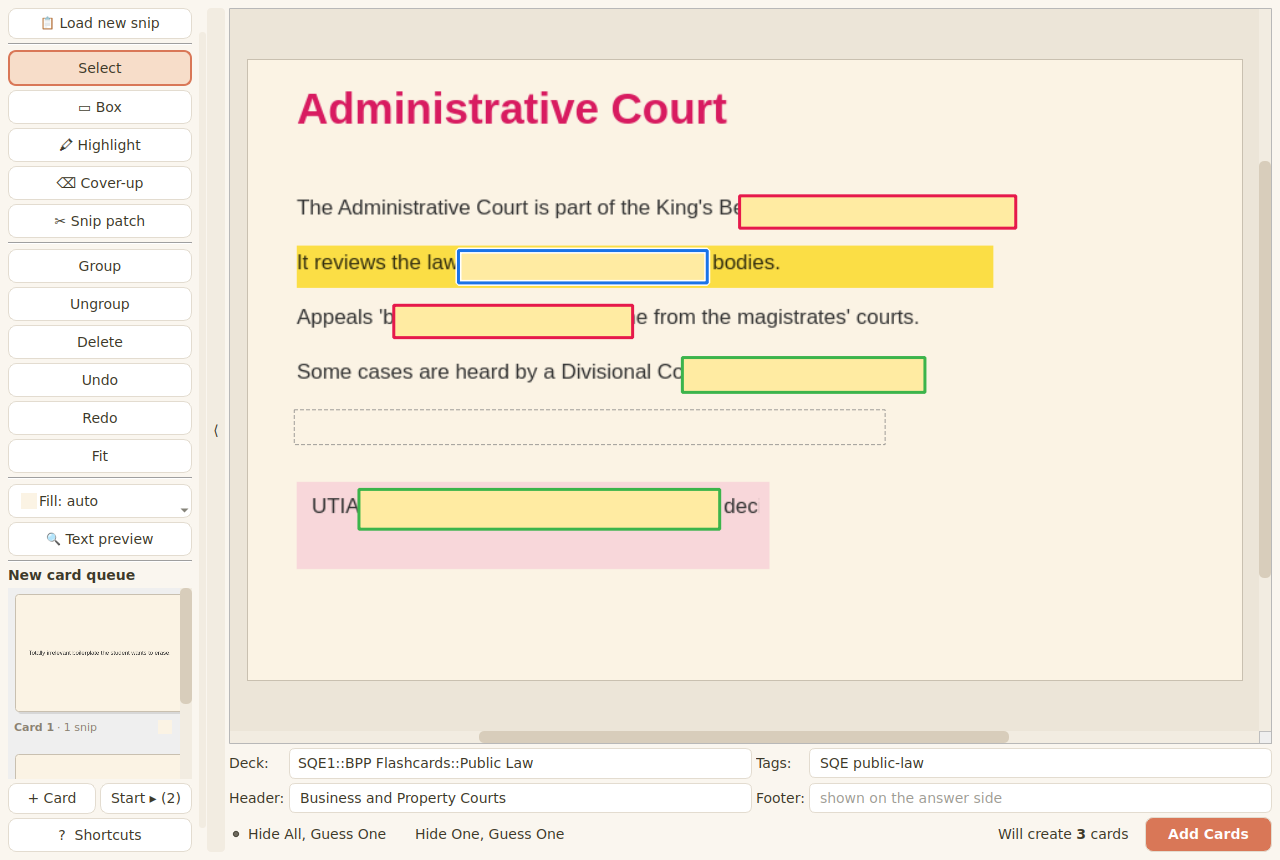
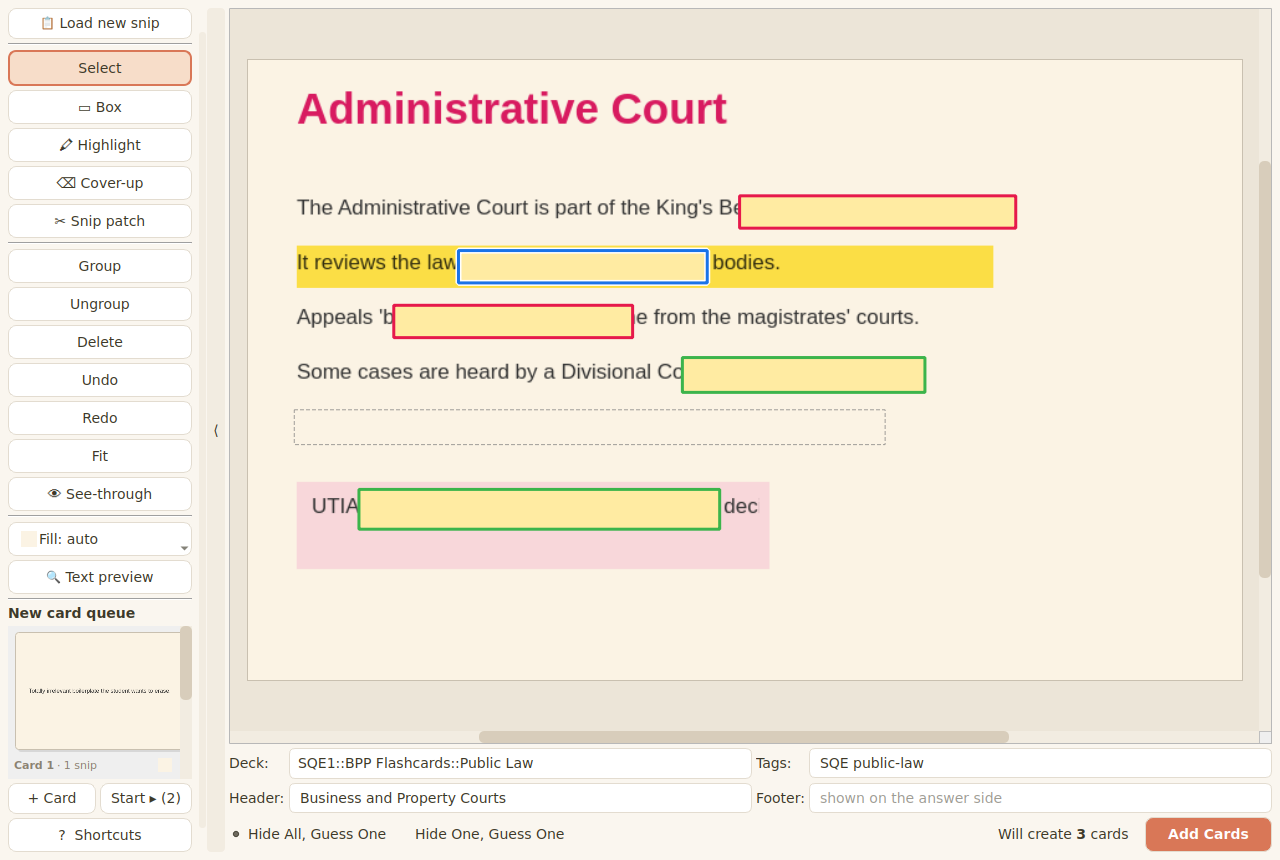
See-through mode and per-box peek (v0.6.0)
- T (or the checkable 👁 See-through button) renders masks and cover-ups
  as outlines only so the text underneath is readable while editing;
  toggling back restores opacity. View-only: bake and cards unaffected
- Right-click any box -> 'Peek underneath' to see through just that box;
  right-click again to stop. Peek state is pruned when shapes are
  deleted and cleared on new images
- Pixel-level tests verify both modes actually reveal the underlying
  image in the rendered viewport

Claude-Session: https://claude.ai/code/session_01B1Kw15xiaiYrjU46HCDApT

diff --git a/snip_occlusion/editor_canvas.py b/snip_occlusion/editor_canvas.py
@@ -83,7 +83,10 @@ class _OverlayItem(QGraphicsItem):
         for s in c.ordered_shapes():
             rect = QRectF(s.x, s.y, s.w, s.h)
             if s.kind == KIND_ERASE:
-                painter.setBrush(QBrush(QColor(s.color or "#ffffff")))
+                if c.xray or s.id in c.peek_ids:
+                    painter.setBrush(Qt.BrushStyle.NoBrush)
+                else:
+                    painter.setBrush(QBrush(QColor(s.color or "#ffffff")))
                 pen = QPen(QColor(120, 120, 120, 180), 1, Qt.PenStyle.DashLine)
                 pen.setCosmetic(True)
                 painter.setPen(pen)
@@ -114,8 +117,13 @@ class _OverlayItem(QGraphicsItem):
                 painter.restore()
                 continue
 
-            fill = QColor(c.mask_fill)  # fully opaque: masks must hide text
-            painter.setBrush(QBrush(fill))
+            # see-through mode (global toggle or per-box peek): outline
+            # only, so the text underneath stays readable while editing
+            see_through = c.xray or s.id in c.peek_ids
+            if see_through:
+                painter.setBrush(Qt.BrushStyle.NoBrush)
+            else:
+                painter.setBrush(QBrush(QColor(c.mask_fill)))  # opaque
             if s.group:
                 # group membership is shown by a bold shared outline colour
                 idx = badge_order.get(s.group, 1)
@@ -123,7 +131,7 @@ class _OverlayItem(QGraphicsItem):
                     QColor(GROUP_PALETTE[(idx - 1) % len(GROUP_PALETTE)]), 3
                 )
             else:
-                pen = QPen(QColor(0, 0, 0, 110), 1)
+                pen = QPen(QColor(0, 0, 0, 190 if see_through else 110), 1)
             pen.setCosmetic(True)
             painter.setPen(pen)
             if s.kind == KIND_ELLIPSE:
@@ -179,6 +187,7 @@ class OcclusionCanvas(QGraphicsView):
     selection_changed = pyqtSignal()
     tool_changed = pyqtSignal(str)
     send_patch_to_new_card = pyqtSignal(str)  # patch id (context menu path)
+    xray_changed = pyqtSignal(bool)
 
     def __init__(self, config: dict, parent=None):
         super().__init__(parent)
@@ -197,6 +206,8 @@ class OcclusionCanvas(QGraphicsView):
         self.tool: str = TOOL_SELECT
         self.gesture: dict | None = None
         self.handles_visible: bool = False
+        self.xray: bool = False  # global see-through: outlines only
+        self.peek_ids: set = set()  # per-box see-through (right-click)
         self._group_counter = 0
         self._undo: list = []
         self._redo: list = []
@@ -229,6 +240,7 @@ class OcclusionCanvas(QGraphicsView):
         self.shapes = []
         self.selection = set()
         self.gesture = None
+        self.peek_ids = set()
         self._group_counter = 0
         self._undo = []
         self._redo = []
@@ -445,8 +457,27 @@ class OcclusionCanvas(QGraphicsView):
         self._emit_changed()
 
     def _emit_changed(self) -> None:
+        self.peek_ids &= {s.id for s in self.shapes}
         self.shapes_changed.emit()
         self.selection_changed.emit()
+        self.viewport().update()
+
+    # -------------------------------------------------------- see-through
+
+    def set_xray(self, on: bool) -> None:
+        if on != self.xray:
+            self.xray = on
+            self.xray_changed.emit(on)
+            self.viewport().update()
+
+    def toggle_xray(self) -> None:
+        self.set_xray(not self.xray)
+
+    def toggle_peek(self, shape_id: str) -> None:
+        if shape_id in self.peek_ids:
+            self.peek_ids.discard(shape_id)
+        else:
+            self.peek_ids.add(shape_id)
         self.viewport().update()
 
     # ------------------------------------------------------------ copy/paste
@@ -924,6 +955,10 @@ class OcclusionCanvas(QGraphicsView):
                 self.delete_selected()
             return
         menu = QMenu(self)
+        act_peek = menu.addAction(
+            "Stop peeking" if s.id in self.peek_ids else "Peek underneath"
+        )
+        menu.addSeparator()
         act_group = menu.addAction("Group selected\tG")
         act_ungroup = menu.addAction("Ungroup\tU")
         act_del = menu.addAction("Delete\tDel")
@@ -931,7 +966,9 @@ class OcclusionCanvas(QGraphicsView):
             len([i for i in self.selection if self.shape_by_id(i)]) >= 2
         )
         chosen = menu.exec(event.globalPos())
-        if chosen == act_group:
+        if chosen == act_peek:
+            self.toggle_peek(s.id)
+        elif chosen == act_group:
             self.group_selected()
         elif chosen == act_ungroup:
             self.ungroup_selected()
@@ -970,13 +1007,19 @@ class OcclusionCanvas(QGraphicsView):
 
     def _erase_color_menu(self, s: sh.Shape, global_pos) -> None:
         menu = QMenu(self)
+        act_peek = menu.addAction(
+            "Stop peeking" if s.id in self.peek_ids else "Peek underneath"
+        )
+        menu.addSeparator()
         act_majority = menu.addAction("Fill with slide's majority colour")
         act_local = menu.addAction("Sample background around this box")
         act_pick = menu.addAction("Choose colour…")
         menu.addSeparator()
         act_del = menu.addAction("Delete\tDel")
         chosen = menu.exec(global_pos)
-        if chosen == act_majority:
+        if chosen == act_peek:
+            self.toggle_peek(s.id)
+        elif chosen == act_majority:
             self.push_undo()
             s.color = self.majority.name()
             self._emit_changed()
@@ -1037,6 +1080,8 @@ class OcclusionCanvas(QGraphicsView):
             self.set_tool(TOOL_PATCH)
         elif key == Qt.Key.Key_H:
             self.set_tool(TOOL_HIGHLIGHT)
+        elif key == Qt.Key.Key_T:
+            self.toggle_xray()
         elif key == Qt.Key.Key_F or key == Qt.Key.Key_0:
             self.fit()
         elif key in (Qt.Key.Key_Plus, Qt.Key.Key_Equal):

diff --git a/tests/test_canvas.py b/tests/test_canvas.py
@@ -476,6 +476,61 @@ def test_copy_paste_preserves_internal_grouping(canvas):
     assert grouped[0].group != "g1"  # a fresh group, not joined to the old
 
 
+def _rendered_color_at(canvas, scene_x, scene_y):
+    """Colour of the rendered viewport at a scene point."""
+    img = canvas.grab().toImage()
+    dpr = img.devicePixelRatio()
+    vp = canvas.mapFromScene(QPointF(scene_x, scene_y))
+    return img.pixelColor(int(vp.x() * dpr), int(vp.y() * dpr))
+
+
+def test_xray_mode_shows_text_under_all_boxes(canvas, qapp):
+    # a mask over a text-free part of the pink callout (y 382..406)
+    s = add_shape(canvas, 60, 382, w=200, h=24)
+    canvas.resetTransform()  # 1:1 so sampled pixels are exact
+    canvas.centerOn(160, 394)
+    canvas.show()
+    qapp.processEvents()
+    covered = _rendered_color_at(canvas, 160, 394)
+    # opaque: the mask colour, nothing pink shows through
+    assert abs(covered.red() - 0xFF) < 25 and abs(covered.green() - 0xEB) < 30
+    canvas.toggle_xray()
+    assert canvas.xray
+    revealed = _rendered_color_at(canvas, 160, 394)
+    # see-through: the pink callout (#f8d7da) is visible again
+    assert abs(revealed.red() - 0xF8) < 25
+    assert abs(revealed.green() - 0xD7) < 30
+    assert abs(revealed.blue() - 0xDA) < 30
+    canvas.toggle_xray()
+    assert not canvas.xray
+    back = _rendered_color_at(canvas, 160, 394)
+    assert abs(back.green() - 0xEB) < 30  # opaque again
+
+
+def test_peek_shows_under_one_box_only(canvas, qapp):
+    a = add_shape(canvas, 60, 382, w=100, h=24)  # over pink callout
+    b = add_shape(canvas, 200, 382, w=100, h=24)  # also over the callout
+    canvas.resetTransform()
+    canvas.centerOn(180, 394)
+    canvas.show()
+    qapp.processEvents()
+    canvas.toggle_peek(a.id)
+    assert a.id in canvas.peek_ids
+    under_a = _rendered_color_at(canvas, 110, 394)
+    under_b = _rendered_color_at(canvas, 250, 394)
+    assert abs(under_a.red() - 0xF8) < 25 and abs(under_a.blue() - 0xDA) < 30
+    assert abs(under_b.green() - 0xEB) < 30  # b stays opaque
+    canvas.toggle_peek(a.id)
+    assert a.id not in canvas.peek_ids
+    # peeking is view-only: cards and baked image are unaffected
+    canvas.toggle_peek(b.id)
+    assert len(target_groups(canvas.shapes)) == 2
+    # deleting a shape cleans up its peek state
+    canvas.selection = {b.id}
+    canvas.delete_selected()
+    assert b.id not in canvas.peek_ids
+
+
 def test_move_is_clamped_to_image(canvas):
     s = add_shape(canvas, 10, 10, w=50, h=30)
     press(canvas, 20, 20)

diff --git a/snip_occlusion/dialog.py b/snip_occlusion/dialog.py
@@ -44,6 +44,11 @@ Click = select one &middot; Shift+click = add/remove from selection \
 Drag on empty area = rubber-band select &middot; Ctrl+A = select all<br>
 Ctrl+C copies the selected boxes &middot; Ctrl+V pastes them beside the \
 originals (never overlapping)<br><br>
+<b>Seeing underneath</b><br>
+<b>T</b> (or the 👁 button) shows every box as an outline only so the \
+text underneath is visible. Right-click one box &rarr; "Peek underneath" \
+to see under just that box; right-click again to stop. View-only - \
+cards are unaffected.<br><br>
 <b>Moving</b><br>
 Drag a shape = move <i>only that shape</i> &middot; \
 Ctrl+drag = move all selected shapes together<br>
@@ -300,6 +305,16 @@ class SnipOcclusionDialog(QDialog):
             qconnect(btn.clicked, lambda _=False, f=cb: f())
             side.addWidget(btn)
 
+        self.xray_btn = self._side_button(
+            "👁 See-through",
+            "Show every box as an outline only, so the text underneath is "
+            "visible while you edit (T). Right-click a single box to peek "
+            "under just that one.",
+        )
+        self.xray_btn.setCheckable(True)
+        qconnect(self.xray_btn.clicked, self._xray_clicked)
+        side.addWidget(self.xray_btn)
+
         side.addWidget(self._separator())
         self.swatch_btn = self._side_button(
             "Fill: auto",
@@ -401,6 +416,7 @@ class SnipOcclusionDialog(QDialog):
         qconnect(
             self.canvas.send_patch_to_new_card, self._send_patch_to_new_card
         )
+        qconnect(self.canvas.xray_changed, self.xray_btn.setChecked)
 
         # --- bottom form
         form = QGridLayout()
@@ -565,6 +581,10 @@ class SnipOcclusionDialog(QDialog):
 
     def _fit(self) -> None:
         self.canvas.fit()
+        self.canvas.setFocus()
+
+    def _xray_clicked(self, checked: bool) -> None:
+        self.canvas.set_xray(checked)
         self.canvas.setFocus()
 
     def _toggle_fullscreen(self) -> None:

diff --git a/tools/dialog_screenshot.py b/tools/dialog_screenshot.py
@@ -97,7 +97,14 @@ def main() -> None:
     dlg.grab().save(str(out_dir / "dialog.png"))
     print("wrote", out_dir / "dialog.png")
 
-    # second shot: sidebar collapsed for full-screen editing
+    # see-through mode shot
+    canvas.set_xray(True)
+    app.processEvents()
+    dlg.grab().save(str(out_dir / "dialog_xray.png"))
+    print("wrote", out_dir / "dialog_xray.png")
+    canvas.set_xray(False)
+
+    # sidebar collapsed for full-screen editing
     dlg._toggle_sidebar()
     app.processEvents()
     canvas.fit()

diff --git a/CHANGELOG.md b/CHANGELOG.md
@@ -4,6 +4,15 @@ Each version below corresponds to a commit on the repository; the
 installed version is shown as `human_version` in
 `snip_occlusion/manifest.json`.
 
+## v0.6.0 — 2026-08-30
+
+- **See-through mode (T / 👁 button):** every box (masks and cover-ups)
+  renders as an outline only, so the text underneath stays readable while
+  editing. Toggle off to go back to opaque. View-only — cards and the
+  saved image are unaffected.
+- **Peek at one box:** right-click any box → "Peek underneath" to see
+  through just that box; right-click → "Stop peeking" to restore it.
+
 ## v0.5.1 — 2026-08-30
 
 - The left toolbar is now freely resizable: drag the divider between the

diff --git a/README.md b/README.md
@@ -105,6 +105,8 @@ Anki add-ons folder (Tools → Add-ons → View Files) and restart Anki.
 | S / R / H / C / P | Select / Rectangle / Highlighter / Cover-up / Snip patch |
 | Double-click a word | Occlude exactly that word (side handles snap by word) |
 | Ctrl+C / Ctrl+V | Copy selected shapes / paste beside them |
+| T | See-through mode: outlines only, text visible underneath |
+| Right-click a box | Peek underneath just that box (and group/colour options) |
 | Click | Select a shape |
 | Shift+click | Add/remove shape from selection (never moves it) |
 | Drag on empty area | Rubber-band select |
